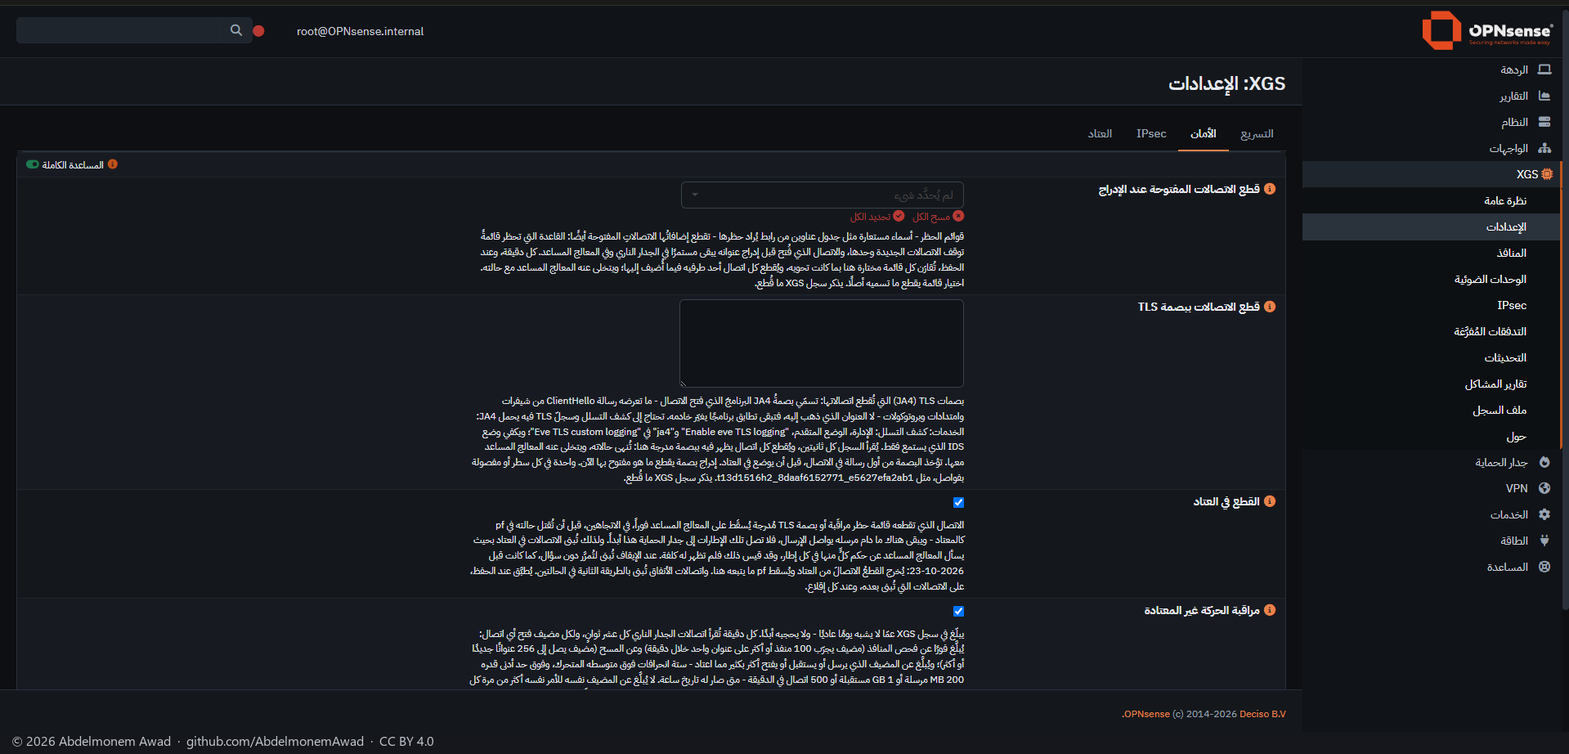
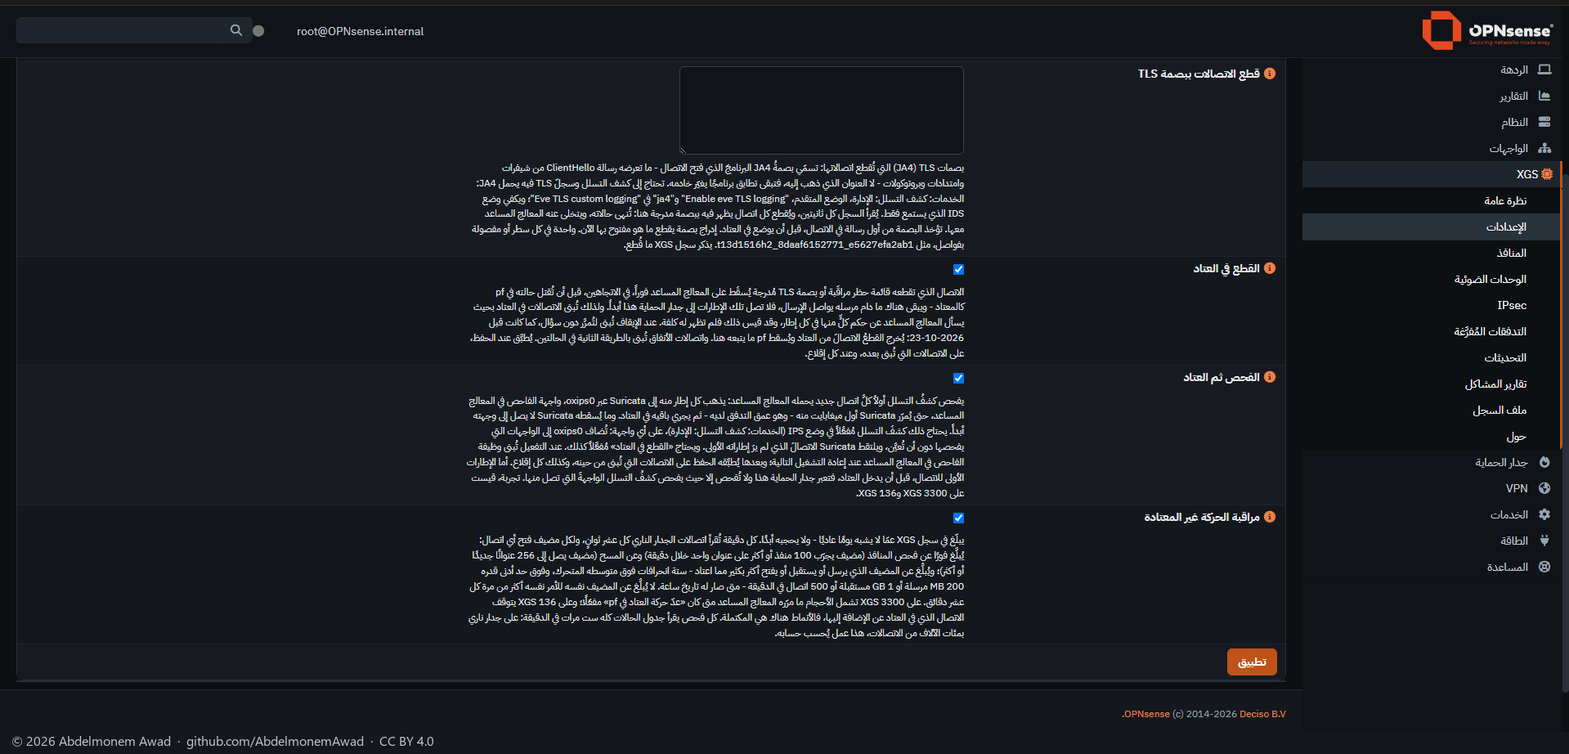
Inspect, then hardware: a setting, and OPNsense's own Intrusion Detection reading oxips0
Discovery 4 of #680, after #698 and #700: XGS: Settings, Security, "Inspect, then hardware", off by
default. Each new connection the coprocessor carries goes to OPNsense's Intrusion Detection in IPS mode
through oxips0 until Suricata has let its first megabyte through, and the hardware carries the rest.

- The setting (XGS.xml, forms/general.xml, apply.php): the marker /var/db/os-xgs-npu/inspector-vf, so
  the function is made at the next boot (a save says a reboot is needed while oxips0 is not there); while
  oxips0 is there, ips_new on and the interface up - at the save and at every boot, in 07-npuep and
  bringup.sh beside "Cut in hardware".
- The Intrusion Detection lists only assigned interfaces, and an assigned interface missing at boot has
  OPNsense assign them all again by itself. So the package adds oxips0 where Suricata reads it: an
  overlay on the IDS's templates (OPNsense/IDS/+TARGETS.D/xgs.TARGET, xgs-inspector.yaml), written into
  the conf.d that suricata.yaml includes, every time the IDS page is applied and at every boot.
- Suricata 8.0.7 replaces a whole list or mapping that an included file names, so the overlay sets
  dotted keys - netmap.900 and netmap.901 with their value "interface" (without it Suricata stopped with
  a segmentation fault), and stream.midstream. It adds oxips0 only in IPS mode, with the setting on, and
  while /var/run/os-xgs-npu.oxips0 says oxips0 is on the appliance this boot: Suricata does not start
[…]

diff --git a/src/opnsense/scripts/xgs/apply.php b/src/opnsense/scripts/xgs/apply.php
@@ -12,6 +12,9 @@
  *   flow_auto          the running driver: dev.octep.0.dp.auto or dev.npuep.0.flow.auto
  *   cut_in_hardware    the running driver's dp.mflow_action or flow.mflow_action (and at boot), and
  *                      the fast path's IPS switch, which offload.sh writes with the gate
+ *   inspect_then_hardware  the marker /var/db/os-xgs-npu/inspector-vf (the inspector's function, at
+ *                      boot), the running driver's dp.ips_new or flow.ips_new, and the Intrusion
+ *                      Detection's configuration through the template overlay OPNsense/IDS/xgs-inspector.yaml
  *   count_to_pf        the running driver, dev.octep.0.dp.hw_to_pf or dev.npuep.0.flow.hw_to_pf
  *                      (and at boot)
  *   count_ports        the running driver, dev.octep.0.dp.lif_apply or dev.npuep.0.flow.lif_apply
@@ -107,6 +110,72 @@ if (sysctl_get($act_oid) === null) {
 } else {
     $ok = false;
     $steps[] = 'cut in hardware: the driver refused ' . $act_oid;
+}
+
+/*
+ * Inspect, then hardware (discovery 4). The marker has the driver make the coprocessor's inspector
+ * function at boot, and oxips0 with it; while oxips0 is here, new connections are made inspected
+ * (ips_new) and /var/run/os-xgs-npu.oxips0 says so to the Intrusion Detection's template overlay,
+ * which adds oxips0 to what Suricata reads (OPNsense/IDS/xgs-inspector.yaml). The Intrusion
+ * Detection's configuration is written again for it, and Suricata restarted when it runs and what it
+ * reads has changed. The boot hooks do the same at every boot.
+ */
+$marker = '/var/db/os-xgs-npu/inspector-vf';
+$present = '/var/run/os-xgs-npu.oxips0';
+$overlay = '/usr/local/etc/suricata/conf.d/xgs-inspector.yaml';
+$inspect = $get('inspect_then_hardware', '0') === '1';
+exec('/sbin/ifconfig oxips0 > /dev/null 2>&1', $ifout, $ifrc);
+$have_if = $ifrc === 0;
+if ($inspect) {
+    @mkdir(dirname($marker), 0755, true);
+    @touch($marker);
+} else {
+    @unlink($marker);
+}
+if ($have_if) {
+    @touch($present);
+} else {
+    @unlink($present);
+}
+$new_oid = $family === 'octeontx' ? 'dev.octep.0.dp.ips_new' : 'dev.npuep.0.flow.ips_new';
+$ids = $c->OPNsense->IDS->general ?? null;
+$ids_on = $ids !== null && (string)$ids->enabled === '1';
+$ids_ips = $ids !== null && (string)$ids->mode === 'netmap';
+if ($inspect && !$have_if) {
+    $reboot = true;
+    $steps[] = "inspect, then hardware: the coprocessor's inspector function is made at the next reboot";
+} elseif ($inspect) {
+    exec('/sbin/ifconfig oxips0 up > /dev/null 2>&1');
+    if (sysctl_set($new_oid, '1')) {
+        $steps[] = 'inspect, then hardware on: new connections go to the Intrusion Detection through oxips0 until it has let ' .
+            round((int)sysctl_get(str_replace('ips_new', 'ips_depth', $new_oid)) / 1048576, 1) . ' MiB of each through';
+    } else {
+        $ok = false;
+        $steps[] = 'inspect, then hardware: the driver refused ' . $new_oid;
+    }
+    if ($cut_hw !== '1') {
+        $steps[] = 'inspect, then hardware: needs "Cut in hardware" on - without it the coprocessor never asks a connection\'s verdict, and connections forward as before';
+    }
+    if (!$ids_on || !$ids_ips) {
+        $steps[] = 'inspect, then hardware: the Intrusion Detection is not on in IPS mode, so nothing reads oxips0 and connections forward as before';
+    }
+} else {
+    if (sysctl_get($new_oid) !== null) {
+        sysctl_set($new_oid, '0');
+    }
+    $steps[] = 'inspect, then hardware off' . ($have_if ? "; the coprocessor's inspector function stays until the next reboot" : '');
+}
+$before = @file_get_contents($overlay);
+$backend = new \OPNsense\Core\Backend();
+$backend->configdRun('template reload OPNsense/IDS');
+if ($before === false) {
+    /* suricata.yaml includes what conf.d held when it was written, and it is written before this. */
+    $backend->configdRun('template reload OPNsense/IDS');
+}
+$after = @file_get_contents($overlay);
+if ($after !== false && $after !== $before && $ids_on) {
+    $backend->configdRun('ids restart');
+    $steps[] = 'the Intrusion Detection restarted to read ' . (strpos($after, 'oxips0') !== false ? 'oxips0 as well' : 'only its own interfaces');
 }
 
 /* The coprocessor's counts, to pf and to the interfaces: both drivers read them. */

diff --git a/docs/images/README.md b/docs/images/README.md
@@ -19,10 +19,10 @@ to a new image, and the checks fail on one without them.
 |---|---|---|
 | [screens/](screens/) | The web interface, page by page, in English and in Arabic | 69 |
 | [hardware/](hardware/) | Photographs and drawings of the appliances, one folder each | 41 |
-| [measurements/](measurements/) | Each measurement's photographs, in a folder named after its page | 331 |
+| [measurements/](measurements/) | Each measurement's photographs, in a folder named after its page | 333 |
 | [readme/](readme/) | The README's banner and status board, drawn by tools/readme-art.py | 4 |
 
-470 images in all.
+472 images in all.
 
 ## The web interface
 
@@ -35,7 +35,7 @@ in [docs/guide/the-pages.md](../guide/the-pages.md), English first and Arabic un
 <tr><td valign="top"><sub>The question on XGS: Overview, on the second XGS 3300 as a new install shows it: problem reports waiting for their Send, the appliance not counted, the model's tested status, "Help it get better", and the two answers</sub></td><td valign="top"><a href="screens/en/01-xgs-overview-question.png"><img src="screens/en/01-xgs-overview-question.png" alt="The question on XGS: Overview, on the second XGS 3300 as a new install shows it: problem reports waiting for their Send, the appliance not counted, the model's tested status, "Help it get better", and the two answers - English" width="100%"></a></td><td valign="top"><a href="screens/ar/01-xgs-overview-question.png"><img src="screens/ar/01-xgs-overview-question.png" alt="The question on XGS: Overview, on the second XGS 3300 as a new install shows it: problem reports waiting for their Send, the appliance not counted, the model's tested status, "Help it get better", and the two answers - Arabic" width="100%"></a></td></tr>
 <tr><td valign="top"><sub>XGS: Overview on an XGS 3300: the front panel drawn with each port's link, cards for the coprocessor, hardware offloading, the IPsec engine, the front ports, the switch chip and the last restart, and the board's limits</sub></td><td valign="top"><a href="screens/en/01-xgs-overview.png"><img src="screens/en/01-xgs-overview.png" alt="XGS: Overview on an XGS 3300: the front panel drawn with each port's link, cards for the coprocessor, hardware offloading, the IPsec engine, the front ports, the switch chip and the last restart, and the board's limits - English" width="100%"></a></td><td valign="top"><a href="screens/ar/01-xgs-overview.png"><img src="screens/ar/01-xgs-overview.png" alt="XGS: Overview on an XGS 3300: the front panel drawn with each port's link, cards for the coprocessor, hardware offloading, the IPsec engine, the front ports, the switch chip and the last restart, and the board's limits - Arabic" width="100%"></a></td></tr>
 <tr><td valign="top"><sub>XGS: Settings on an XGS 3300: the Acceleration tab</sub></td><td valign="top"><a href="screens/en/02-xgs-settings.png"><img src="screens/en/02-xgs-settings.png" alt="XGS: Settings on an XGS 3300: the Acceleration tab - English" width="100%"></a></td><td valign="top"><a href="screens/ar/02-xgs-settings.png"><img src="screens/ar/02-xgs-settings.png" alt="XGS: Settings on an XGS 3300: the Acceleration tab - Arabic" width="100%"></a></td></tr>
-<tr><td valign="top"><sub>XGS: Settings on an XGS 3300, the Security tab with full help: Cut open connections when listed, Cut connections by TLS fingerprint, Cut in hardware, Watch for unusual traffic</sub></td><td valign="top"><a href="screens/en/02b-xgs-settings-security.png"><img src="screens/en/02b-xgs-settings-security.png" alt="XGS: Settings on an XGS 3300, the Security tab with full help: Cut open connections when listed, Cut connections by TLS fingerprint, Cut in hardware, Watch for unusual traffic - English" width="100%"></a></td><td valign="top"><a href="screens/ar/02b-xgs-settings-security.png"><img src="screens/ar/02b-xgs-settings-security.png" alt="XGS: Settings on an XGS 3300, the Security tab with full help: Cut open connections when listed, Cut connections by TLS fingerprint, Cut in hardware, Watch for unusual traffic - Arabic" width="100%"></a></td></tr>
+<tr><td valign="top"><sub>XGS: Settings on the XGS 136, the Security tab with full help: Cut in hardware, Inspect, then hardware, Watch for unusual traffic</sub></td><td valign="top"><a href="screens/en/02b-xgs-settings-security.png"><img src="screens/en/02b-xgs-settings-security.png" alt="XGS: Settings on the XGS 136, the Security tab with full help: Cut in hardware, Inspect, then hardware, Watch for unusual traffic - English" width="100%"></a></td><td valign="top"><a href="screens/ar/02b-xgs-settings-security.png"><img src="screens/ar/02b-xgs-settings-security.png" alt="XGS: Settings on the XGS 136, the Security tab with full help: Cut in hardware, Inspect, then hardware, Watch for unusual traffic - Arabic" width="100%"></a></td></tr>
 <tr><td valign="top"><sub>XGS: Settings on an XGS 3300, the Hardware tab: the flow table, the switch chip, the fast path, the ports</sub></td><td valign="top"><a href="screens/en/02c-xgs-settings-hardware.png"><img src="screens/en/02c-xgs-settings-hardware.png" alt="XGS: Settings on an XGS 3300, the Hardware tab: the flow table, the switch chip, the fast path, the ports - English" width="100%"></a></td><td valign="top"><a href="screens/ar/02c-xgs-settings-hardware.png"><img src="screens/ar/02c-xgs-settings-hardware.png" alt="XGS: Settings on an XGS 3300, the Hardware tab: the flow table, the switch chip, the fast path, the ports - Arabic" width="100%"></a></td></tr>
 <tr><td valign="top"><sub>XGS: Ports on an XGS 3300</sub></td><td valign="top"><a href="screens/en/03-xgs-ports.png"><img src="screens/en/03-xgs-ports.png" alt="XGS: Ports on an XGS 3300 - English" width="100%"></a></td><td valign="top"><a href="screens/ar/03-xgs-ports.png"><img src="screens/ar/03-xgs-ports.png" alt="XGS: Ports on an XGS 3300 - Arabic" width="100%"></a></td></tr>
 <tr><td valign="top"><sub>XGS: Ports on the XGS 136, its Power over Ethernet section: port 11 on with no device, port 12 switched off, each with Switch off or on and Power cycle</sub></td><td valign="top"><a href="screens/en/03b-xgs-ports-poe.png"><img src="screens/en/03b-xgs-ports-poe.png" alt="XGS: Ports on the XGS 136, its Power over Ethernet section: port 11 on with no device, port 12 switched off, each with Switch off or on and Power cycle - English" width="100%"></a></td><td valign="top"><sub>English only</sub></td></tr>
@@ -286,7 +286,7 @@ The page: [image-136-2026-10-21.md](../measurements/image-136-2026-10-21.md).
 the sources the image carries, the update to 26.7.7 with the reboot held until the driver was built
 for the new kernel, and the IPsec offload, ports and route after the restored configuration | [image-136-2026-10-21.md](../measurements/image-136-2026-10-21.md) |
 
-### measurements/inspect-2026-10-23/ (11)
+### measurements/inspect-2026-10-23/ (13)
 
 The page: [inspect-2026-10-23.md](../measurements/inspect-2026-10-23.md).
 
@@ -303,6 +303,8 @@ The page: [inspect-2026-10-23.md](../measurements/inspect-2026-10-23.md).
 | [09-136-tcp-inspected-and-back.png](measurements/inspect-2026-10-23/09-136-tcp-inspected-and-back.png) | XGS 136, a TCP stream set to inspection and handed straight back by the driver through the inspector's function: the link full, 401,868 frames there and back, none dropped | [inspect-2026-10-23.md](../measurements/inspect-2026-10-23.md) |
 | [10-136-udp-inspected-and-back.png](measurements/inspect-2026-10-23/10-136-udp-inspected-and-back.png) | XGS 136, a UDP stream at 300 Mbit/s, the same: 326 Mbit/s at the far end, all of it | [inspect-2026-10-23.md](../measurements/inspect-2026-10-23.md) |
 | [11-136-inspected-then-hardware.png](measurements/inspect-2026-10-23/11-136-inspected-then-hardware.png) | XGS 136, inspection then hardware: a new TCP stream through Suricata, then forwarded in hardware at 930 Mbit/s; a new UDP stream to the blocked port dropped by Suricata, 199,507 drop events | [inspect-2026-10-23.md](../measurements/inspect-2026-10-23.md) |
+| [12-136-the-ids-service-on-oxips0.png](measurements/inspect-2026-10-23/12-136-the-ids-service-on-oxips0.png) | XGS 136, Inspect, then hardware through OPNsense's Intrusion Detection service: a new TCP stream inspected, alerted on, then carried in hardware at 941 Mbit/s; a new UDP stream blocked by a drop rule | [inspect-2026-10-23.md](../measurements/inspect-2026-10-23.md) |
+| [13-3300-the-ids-service-on-oxips0.png](measurements/inspect-2026-10-23/13-3300-the-ids-service-on-oxips0.png) | XGS 3300, Inspect, then hardware through OPNsense's Intrusion Detection service: a new TCP stream inspected, alerted on, then carried in hardware at 3.98 Gbit/s; a new UDP stream blocked by a drop rule | [inspect-2026-10-23.md](../measurements/inspect-2026-10-23.md) |
 
 ### measurements/ipv6-and-queues-2026-10-18/ (3)
 

diff --git a/docs/measurements/inspect-2026-10-23.md b/docs/measurements/inspect-2026-10-23.md
@@ -130,7 +130,9 @@ and the same steps after the next boot did not; why, is not known.
 
 ### How to turn it on, while it is an experiment
 
-There is no setting yet. On an XGS 3300 with this driver:
+~~There is no setting yet.~~ Since the evening there is one, which does all of this and has OPNsense's
+own Intrusion Detection read `oxips0` ([below](#the-setting-and-the-intrusion-detection-service)).
+By hand, on an XGS 3300 with this driver:
 
     touch /var/db/os-xgs-npu/inspector-vf     # then reboot: the function is made at boot
     ifconfig oxips0 up
@@ -158,8 +160,9 @@ own IDS service rather than through it (`images/deploy/inspect-suricata.yaml`,
 
 - ~~**The XGS 136**: its coprocessor sets up four functions of its own; the host makes none yet.~~
   The XGS 136's driver makes one since the same evening ([below](#then-made-on-the-xgs-136)).
-- **A setting**, and OPNsense's Intrusion Detection service reading `oxips0`: the interface is not
-  assigned, and the service only lists assigned ones.
+- ~~**A setting**, and OPNsense's Intrusion Detection service reading `oxips0`: the interface is not
+  assigned, and the service only lists assigned ones.~~ Both since the evening, the interface still
+  unassigned ([below](#the-setting-and-the-intrusion-detection-service)).
 - **A connection's first frames**, before it is in hardware, cross the host and are not on `oxips0`;
   Suricata sees them only if it also inspects the front ports.
 - A frame longer than one receive buffer, and a frame that is not IP, is not inspected - it is dropped
@@ -223,6 +226,70 @@ On an XGS 136 with this driver it is turned on as on the XGS 3300, with this fam
 Counters: `dev.npuep.0.ips.rx`, `up`, `passed`, `back`, `nomd`, `unkeyed`, `dropped`, and
 `dev.npuep.0.flow.ips_made`, `ips_cut`. Beside what the XGS 3300's list says it does not do yet, the
 function's queue is one, read on the receive poll, and only the XGS 136 (AMDA0201) has made it.
+
+## The setting, and the Intrusion Detection service
+
+Later the same evening, on both appliances: XGS: Settings, on the **Security** tab, **Inspect, then
+hardware** - off by default - and OPNsense's own Intrusion Detection reading `oxips0`, with nothing
+run by hand and nothing in OPNsense's own files changed.
+
+- **The setting** writes the marker, so the function is made at the next boot (a save says a reboot
+  is needed while `oxips0` is not there yet), and while `oxips0` is there turns `ips_new` on and
+  brings the interface up - at the save and at every boot, in the boot hook beside "Cut in hardware".
+- **The Intrusion Detection** lists only assigned interfaces, and `oxips0` is not assigned: an
+  interface assigned in OPNsense that is missing at boot has OPNsense assign every interface again by
+  itself, which wiped the second XGS 3300's assignments on 2026-10-23 when an interface the driver made
+  late had been assigned. So the package adds `oxips0` where Suricata reads it instead: OPNsense's
+  template engine takes extra targets for a module from `+TARGETS.D`, and the IDS's `suricata.yaml`
+  includes every file in `/usr/local/etc/suricata/conf.d`. The package's overlay on the IDS module,
+  `OPNsense/IDS/xgs-inspector.yaml`, is written with OPNsense's own `suricata.yaml` - every time the
+  IDS page is applied, and at every boot - and adds `oxips0` and its host side to the interfaces
+  Suricata opens in IPS mode, beside the ones chosen on the IDS page.
+- **Suricata replaces a whole list or mapping that an included file names**: an included `netmap`
+  list took the place of the IDS page's interfaces and an included `stream` mapping of every stream
+  setting (`--dump-config`, Suricata 8.0.7). A key written with dots - `netmap.900.interface` - sets that
+  one node and leaves the rest; given without its value, `interface`, as a list entry has, it stopped
+  Suricata with a segmentation fault. The overlay writes its two entries that way, and
+  `stream.midstream: true`, because a connection reaches `oxips0` already open. While the setting is
+  on, that is Suricata's midstream pick-up for every interface it inspects.
+- **Suricata does not start when an interface it is given is missing.** The overlay adds `oxips0` only
+  in IPS mode, with the setting on, and while `/var/run/os-xgs-npu.oxips0` says `oxips0` is on the
+  appliance this boot - the boot hook writes it before OPNsense writes its templates, and the save when
+  it runs. On the XGS 136, the marker taken away by hand and the appliance restarted: no function, the
+  overlay empty, Suricata running on the IDS page's interface alone; the save then said a reboot was
+  needed and put the marker back, and the next boot had it all again.
+
+Measured with the Intrusion Detection on in IPS mode on an interface that carries nothing - F2 on the
+XGS 136, Port1 on the XGS 3300 - and one user-defined rule acting on everything to the far end: first
+**alert**, while a new TCP stream ran twelve seconds, then **drop**, while a new UDP stream ran eight at
+300 Mbit/s (`images/deploy/lab-inspect-ids.sh`, `lab-inspect-config.php`):
+
+| | the rule | the stream | through Suricata on `oxips0` | the Intrusion Detection's log |
+|---|---|---|---|---|
+| XGS 136, npuep.ko 687b1f3e | alert | TCP, **941 Mbit/s** - the link full | its first 1,502 frames, then forward in hardware | 2 alerts, allowed |
+| XGS 136 | drop | UDP, 300 Mbit/s | 182,288 frames, none let through | 2 alerts, blocked |
+| XGS 3300, octep.ko 1d1f2d08 | alert | TCP, **3.98 Gbit/s** | its first 749 frames, then forward in hardware | 2 alerts, allowed |
+| XGS 3300 | drop | UDP, 300 Mbit/s | 205,409 frames, none let through | 2 alerts, blocked |
+
+What the dropped stream left behind it at the far end: 35 MB on the XGS 136, read on the second XGS
+3300's Port8 (15 MB in the run before) - its frames before it was put in hardware, which cross this
+host and an interface the IDS does not inspect - and nothing on the XGS 3300, read on its F2's counters,
+which carry what the coprocessor forwards. iperf3's own receiver line says nothing here: it comes back
+on iperf3's control connection, which the rule cuts as well.
+
+After a reboot of each, with nothing done by hand, a new connection was inspected by the service's
+Suricata: on the XGS 136 the drop rule still in place, 290 frames to `oxips0` and none back; on the
+XGS 3300 with the alert rule, 744 frames, then forward, 3.73 Gbit/s.
+
+![XGS 136, Inspect, then hardware through OPNsense's Intrusion Detection service: a new TCP stream inspected, alerted on, then carried in hardware at 941 Mbit/s; a new UDP stream blocked by a drop rule](../images/measurements/inspect-2026-10-23/12-136-the-ids-service-on-oxips0.png)
+
+![XGS 3300, Inspect, then hardware through OPNsense's Intrusion Detection service: a new TCP stream inspected, alerted on, then carried in hardware at 3.98 Gbit/s; a new UDP stream blocked by a drop rule](../images/measurements/inspect-2026-10-23/13-3300-the-ids-service-on-oxips0.png)
+
+To use it: XGS: Settings, **Security**, **Inspect, then hardware**, and reboot once; **Cut in
+hardware** on, as it is by default; the Intrusion Detection on in IPS mode on any interface
+(**Services: Intrusion Detection: Administration**), with the rules to apply. What the list above
+says it does not do yet still holds: a connection's first frames are inspected only where the IDS
+inspects the interface they arrive on.
 
 ## How it was measured
 

diff --git a/docs/measurements/README.md b/docs/measurements/README.md
@@ -27,7 +27,7 @@ each kind of figure and the rules, each with its reason - is [how the measuremen
 | [A thousand connections at once through the XGS 3300, 2026-10-19](xgs3300-many-2026-10-19.md) | XGS 3300: 1,024 streams from the PC, 1,032 connections in hardware, the 10 Gbit/s link full at 9,837 Mbit/s, the CPUs 7.8 % busy; each connection made five or six times and revived twenty in 30 s |
 | [Tunnel connections in the XGS 136's flow table, 2026-10-20](tunflows-136-2026-10-20.md) | XGS 136: a tunnel connection's encrypting direction forwarded and encrypted by the fast path - the host handing it no frame, its CPUs 11 % busy against 23 %, 916 Mbit/s, none of it in the clear, a rekey handled; set in XGS: Settings |
 | [An image from the builder on the XGS 136: installed, updated, its configuration restored, 2026-10-21](image-136-2026-10-21.md) | XGS 136: the front ports up at the first boot of a clean install, the driver built from the sources the image carries; updated to OPNsense 26.7.7 from the GUI, the reboot held 54 seconds until the driver was built for the new kernel; the earlier configuration restored, the driver's loader settings taken at the second boot |
-| [Where a connection sent to inspection goes - and then the inspector made, 2026-10-23](inspect-2026-10-23.md) | both appliances: the "send to inspection" verdict hands every frame to the inspector's PCIe virtual function, which OPNsense did not make - 167,677 frames in six seconds on the XGS 3300, 151,867 on the XGS 136, nothing received; then, on the XGS 3300, the function made: Suricata in IPS mode on oxips0 blocks a connection in hardware, passes another at 3.2 Gbit/s, and inspects a new one for its first megabyte before the hardware carries the rest at 3.8 Gbit/s; the same on the XGS 136 the same evening, the gigabit link full |
+| [Where a connection sent to inspection goes - and then the inspector made, 2026-10-23](inspect-2026-10-23.md) | both appliances: the "send to inspection" verdict hands every frame to the inspector's PCIe virtual function, which OPNsense did not make - 167,677 frames in six seconds on the XGS 3300, 151,867 on the XGS 136, nothing received; then, on the XGS 3300, the function made: Suricata in IPS mode on oxips0 blocks a connection in hardware, passes another at 3.2 Gbit/s, and inspects a new one for its first megabyte before the hardware carries the rest at 3.8 Gbit/s; the same on the XGS 136 the same evening, the gigabit link full; and the setting, "Inspect, then hardware", with OPNsense's own Intrusion Detection reading oxips0 on both |
 | [A connection cut on the coprocessor itself, by its verdict, 2026-10-23](verdict-2026-10-23.md) | both appliances: a block list's cut drops the connection in hardware first and keeps it there - a UDP flood cut, 10 frames to the XGS 3300's host in ten seconds against 610,533 without "Cut in hardware", 36 against 280,202 on the XGS 136; a thousand connections the same with it as without |
 | [The XGS 3300's coprocessor reached over its management link, 2026-10-23](mgmt-link-2026-10-23.md) | XGS 3300: one command on the coprocessor in 0.73-0.77 s over its PCIe link instead of 11.01 s over its console, the Transceivers page's read in 1.80 s instead of 36.19; the link started, addressed and answering at every boot, three in a row, every interface kept; XGS 136 unchanged, 0.49-0.53 s |
 | [The heartbeat with the fast path, 2026-10-22](heartbeat-2026-10-22.md) | XGS 3300: asked every 5 seconds and answered every time, about 130 µs idle and 20-131 µs under 6.13 Gbit/s, nothing lost to it (5.90 Gbit/s with it off); its fast path stopped for 45 seconds - late after 19 s, taken as stopped at 30 s, answering again after 48 s, the data path back with it. XGS 136: its fast path drops the heartbeat message unanswered, ~~so it is off by default there~~ so since 2026-10-23 its answer is the beat taken off the host's queue - a stop of 40 seconds seen late, taken as stopped, back; its RPC channel answers with the fast path stopped, so it could not stand in. Beats sent before the coprocessor's handshake were followed by a boot on which the fast path sent nothing |

diff --git a/docs/findings/discoveries-2026-10-22.md b/docs/findings/discoveries-2026-10-22.md
@@ -40,7 +40,7 @@ second XGS 3300 and on the XGS 136, read only.
 | 1 | [The TCP window, in hardware](#the-tcp-window-in-hardware) | fast path | ~~source~~ **measured** | ~~source~~ **measured** | ~~**a gap**: checked nowhere~~ **checked in hardware since 2026-10-22** |
 | 2 | [The window handed back](#the-window-handed-back) | fast path | ~~source~~ **measured** | ~~source~~ **measured** | ~~the take-back's TCP state not used~~ **given to pf at a take-back since 2026-10-22** |
 | 3 | [A connection dropped by its verdict](#a-connection-dropped-by-its-verdict) | fast path | ~~source~~ **measured** | ~~source~~ **measured** | ~~verdict always "forward"~~ **a cut drops the connection on the coprocessor since 2026-10-23** ("Cut in hardware") |
-| 4 | [Inspection, then hardware](#inspection-then-hardware) | fast path | ~~source~~ **measured** | ~~source~~ **measured** | ~~none - the frames go to a virtual function OPNsense does not make~~ **XGS 3300: made 2026-10-23, Suricata inspects a connection in hardware and the hardware carries the rest - off by default**; ~~the XGS 136 next~~ **XGS 136: made the same evening, the same way, the link full** |
+| 4 | [Inspection, then hardware](#inspection-then-hardware) | fast path | ~~source~~ **measured** | ~~source~~ **measured** | ~~none - the frames go to a virtual function OPNsense does not make~~ **XGS 3300: made 2026-10-23, Suricata inspects a connection in hardware and the hardware carries the rest - off by default**; ~~the XGS 136 next~~ **XGS 136: made the same evening, the same way, the link full**; **a setting, "Inspect, then hardware", with OPNsense's own Intrusion Detection, the same evening** |
 | 5 | [Live users](#live-users) | fast path | source | source | none |
 | 6 | [A priority bit and a meter for each connection](#a-priority-bit-and-a-meter-for-each-connection) | fast path | source | source | zero |
 | 7 | [The QoS commands](#the-qos-commands) | fast path | source | source | none; expected refused |
@@ -137,12 +137,16 @@ another way until they do. What using it would take, and a nearer way to the sam
 one**: the coprocessor took it, the frames arrived with the vendor's metadata, and Suricata in IPS mode
 on the inspector's interface `oxips0` blocked a connection in hardware and let another through at 3.2
 Gbit/s; a new connection inspected for its first megabyte then ran in hardware at 3.8 Gbit/s. Off unless
-asked for, while ~~the XGS 136 and~~ a setting ~~follow~~ follows
+asked for, while ~~the XGS 136 and~~ ~~a setting~~ ~~follow~~ ~~follows~~
 ([measured](../measurements/inspect-2026-10-23.md#then-made-on-the-xgs-3300)). **The XGS 136's driver
 made its function the same evening** - the first of the four its coprocessor sets up - and the same
 inspection then hardware ran there: Suricata dropped a UDP stream by its rule from the moment it was in
 hardware, and a new TCP stream ran through it, then in hardware, with the gigabit link full
-([measured](../measurements/inspect-2026-10-23.md#then-made-on-the-xgs-136)).
+([measured](../measurements/inspect-2026-10-23.md#then-made-on-the-xgs-136)). **And the setting**, later
+that evening: XGS: Settings **Inspect, then hardware**, with OPNsense's own Intrusion Detection in IPS
+mode reading `oxips0` through a template overlay - a rule's alert and its drop both taken, the TCP
+stream at 941 Mbit/s on the XGS 136 and 3.98 Gbit/s on the XGS 3300
+([measured](../measurements/inspect-2026-10-23.md#the-setting-and-the-intrusion-detection-service)).
 
 **source.** The "send to inspection" verdict hands a connection to an inspector on a virtual function
 (`ips_vf`), with a metadata block that lets the inspector rewrite the packet and ask for new

diff --git a/website/i18n/ar/guide/faq.md b/website/i18n/ar/guide/faq.md
@@ -45,10 +45,15 @@ GitHub، وأداتا كتابة الذاكرة وفتح الطرفية.
 الاتصالات، بعد أن يسمح بها جدار الحماية - فيمرّرها المسار السريع من منفذ إلى منفذ - وIPsec، الذي يشفّر
 محرّك المعالج المساعد ارتباطاته ويفكّ تشفيرها. وما يجب أن يراه المضيف يبقى معه: الاتصال الذي يسمّيه
 مشكِّل الحركة أو بوابة الدخول يبقى على المضيف، وSuricata يرى الاتصال قبل أن يدخل العتاد - بدايته، ولا
-شيء بعدها. **فوضع IPS المضمَّن في Suricata والتسريع، حتى الآن، إما هذا وإما ذاك**: ما يجب أن يراه IPS
-كاملًا يوضع في **Never offloaded** في XGS: Settings، أو يبقى التسريع مطفأً. وهل يمكن أن يعملا معًا فهذا
-قيد البحث: للمسار السريع في المعالج المساعد حكم يرسل بداية الاتصال إلى فاحص ويحمل الباقي بنفسه، وُجد
-في 2026-10-22 ولم يُجرَّب بعد ([الاكتشافات](/docs/findings/discoveries-2026-10-22/#inspection-then-hardware)، بالإنجليزية).
+شيء بعدها. ~~**فوضع IPS المضمَّن في Suricata والتسريع، حتى الآن، إما هذا وإما ذاك**~~ **ووضع IPS
+المضمَّن في Suricata والتسريع يعملان معًا منذ 2026-10-23، تجربةً**: الخيار **Inspect, then hardware** في
+XGS: Settings، المطفأ افتراضيًا، يجعل كشف التسلل في OPNsense بوضع IPS يرى كل إطار من الاتصال الجديد في
+العتاد حتى يُمرّر أول ميغابايت منه، ويُسقط ما تُسقطه قواعده، ويترك الباقي للعتاد - قيس بالخدمة نفسها
+على الجهازين ([القياس](/docs/measurements/inspect-2026-10-23/#the-setting-and-the-intrusion-detection-service)، بالإنجليزية).
+ومن دونه، ما يجب أن يراه IPS
+كاملًا يوضع في **Never offloaded** في XGS: Settings، أو يبقى التسريع مطفأً. ~~وهل يمكن أن يعملا معًا فهذا
+قيد البحث:~~ للمسار السريع في المعالج المساعد حكم يرسل بداية الاتصال إلى فاحص ويحمل الباقي بنفسه، وُجد
+في 2026-10-22 ~~ولم يُجرَّب بعد~~ وجُرِّب في 2026-10-23 ([الاكتشافات](/docs/findings/discoveries-2026-10-22/#inspection-then-hardware)، بالإنجليزية).
 [ما يعمل](/docs/guide/what-works/)، و[مشكِّل الحركة مقيساً](/docs/measurements/shaper-3300-2026-10-20/)،
 و[قطع اتصال ببصمة TLS](/docs/measurements/ja4-cut-2026-10-19/) (بالإنجليزية).
 

diff --git a/docs/guide/faq.md b/docs/guide/faq.md
@@ -41,8 +41,13 @@ each appliance, is in its family page's table - [ARMADA](../families/armada.md#w
 Connections, once the firewall has let them through - the fast path forwards them port to port - and
 IPsec, whose associations the coprocessor's engine encrypts and decrypts. What has to be seen by the
 host stays with it: a connection the traffic shaper or the captive portal names is kept on the host,
-and Suricata sees a connection before it goes into hardware - how it starts, and nothing after. **Suricata's
-inline IPS and the offload are, for now, one or the other**: what the IPS must see in full goes in
+and Suricata sees a connection before it goes into hardware - how it starts, and nothing after. ~~**Suricata's
+inline IPS and the offload are, for now, one or the other**~~ **Suricata's inline IPS and the offload
+work together since 2026-10-23, as an experiment**: XGS: Settings **Inspect, then hardware**, off by
+default, has OPNsense's Intrusion Detection in IPS mode see every frame of a new connection in hardware
+until it has let its first megabyte through, drop what its rules drop, and leave the rest to the
+hardware - measured with the service itself on both appliances ([measured](../measurements/inspect-2026-10-23.md#the-setting-and-the-intrusion-detection-service)).
+Without it, what the IPS must see in full goes in
 **Never offloaded** on XGS: Settings, or acceleration stays off. Whether the two can work together is
 under research: the coprocessor's fast path has a verdict that sends a connection's start to an
 inspector and carries the rest itself, found on 2026-10-22 ~~and not tried yet~~ and tried on
@@ -51,9 +56,10 @@ does not, so they are lost until the drivers make one
 ([the discoveries](../findings/discoveries-2026-10-22.md#inspection-then-hardware),
 [measured](../measurements/inspect-2026-10-23.md)). On the XGS 3300 the driver made one the same day,
 and Suricata inspected connections in hardware through it - their first megabyte, then the hardware
-carried the rest. That is an experiment, off unless asked for, until ~~the XGS 136 has it too and~~ there
-is a setting ([measured](../measurements/inspect-2026-10-23.md#then-made-on-the-xgs-3300)); the XGS 136
-has it too since the same evening ([measured](../measurements/inspect-2026-10-23.md#then-made-on-the-xgs-136)).
+carried the rest. That is an experiment, off unless asked for, ~~until~~ ~~the XGS 136 has it too and~~ ~~there
+is a setting~~ ([measured](../measurements/inspect-2026-10-23.md#then-made-on-the-xgs-3300)); the XGS 136
+has it too since the same evening ([measured](../measurements/inspect-2026-10-23.md#then-made-on-the-xgs-136)),
+and the setting above since later that evening.
 [What works](what-works.md), [the shaper, measured](../measurements/shaper-3300-2026-10-20.md),
 [a TLS fingerprint, cut](../measurements/ja4-cut-2026-10-19.md).
 

diff --git a/docs/guide/the-pages.md b/docs/guide/the-pages.md
@@ -103,6 +103,10 @@ again; on the XGS 136, the receive path too. **Full help** shows the text under 
 the Security tab below; **advanced mode** shows the rest. Since 2026-10-23 **Cut in hardware**, on
 by default, has both cuts on the **Security** tab drop a connection on the coprocessor itself first
 and keep it there while its sender goes on ([measured](../measurements/verdict-2026-10-23.md)).
+**Inspect, then hardware**, off by default, has OPNsense's Intrusion Detection in IPS mode inspect
+each new connection in hardware until it has let its first megabyte through, and the coprocessor
+carry the rest; it needs one reboot
+([measured](../measurements/inspect-2026-10-23.md#the-setting-and-the-intrusion-detection-service)).
 Since 2026-10-19 that tab has **Cut open connections when listed**: block lists whose additions cut
 the connections already open ([measured](../measurements/lists-cut-2026-10-19.md)), and **Cut
 connections by TLS fingerprint**: JA4 fingerprints whose connections are cut, read from the
@@ -115,7 +119,7 @@ traffic graphs show it ([measured](../measurements/hw-counters-2026-10-19.md); o
 **Watch for unusual traffic** reports a scan, a sweep, or a host far beyond its own normal in the
 XGS log, and blocks nothing ([measured](../measurements/anomaly-2026-10-19.md)).
 
-![XGS: Settings on an XGS 3300, the Security tab with full help: Cut open connections when listed, Cut connections by TLS fingerprint, Cut in hardware, Watch for unusual traffic](../images/screens/en/02b-xgs-settings-security.png)
+![XGS: Settings on the XGS 136, the Security tab with full help: Cut in hardware, Inspect, then hardware, Watch for unusual traffic](../images/screens/en/02b-xgs-settings-security.png)
 
 ![XGS: Settings on an XGS 3300, the Hardware tab: the flow table, the switch chip, the fast path, the ports](../images/screens/en/02c-xgs-settings-hardware.png)
 
@@ -123,7 +127,7 @@ XGS log, and blocks nothing ([measured](../measurements/anomaly-2026-10-19.md)).
 
 ![XGS: Settings on an XGS 3300, in Arabic: the Acceleration tab](../images/screens/ar/02-xgs-settings.png)
 
-![XGS: Settings on an XGS 3300, the Security tab, in Arabic](../images/screens/ar/02b-xgs-settings-security.png)
+![XGS: Settings on the XGS 136, the Security tab with full help, in Arabic](../images/screens/ar/02b-xgs-settings-security.png)
 
 ![XGS: Settings on an XGS 3300, the Hardware tab, in Arabic](../images/screens/ar/02c-xgs-settings-hardware.png)
 

diff --git a/README.md b/README.md
@@ -81,11 +81,17 @@ Two of the six coprocessor families answer now, on silicon that shares nothing.
   [XGS 136](docs/measurements/xgs136-counts-2026-10-19.md#the-reader-measured)). Each driver sizes its table by what the board itself says it holds -
   2,000,000 connections on the XGS 3300, 1,500,000 on the XGS 136
   ([board-limits.md](docs/families/board-limits.md)).
-- **An IPS or the offload, for now.** Suricata sees how a connection in hardware starts and nothing
+- ~~**An IPS or the offload, for now.** Suricata sees how a connection in hardware starts and nothing
   after, so its inline IPS and the offload are one or the other until the two are measured together:
   what it must see in full goes in **Never offloaded** on XGS: Settings, or acceleration stays off.
-  Whether they can work together is under research
-  ([the FAQ](docs/guide/faq.md#what-runs-in-the-coprocessors-hardware)).
+  Whether they can work together is under research~~
+  **An IPS and the offload together, as an experiment.** With **Inspect, then hardware** on XGS:
+  Settings, OPNsense's Intrusion Detection in IPS mode sees every frame of a new connection the
+  coprocessor carries until it has let its first megabyte through, drops what its rules drop, and the
+  hardware carries the rest - 941 Mbit/s on the XGS 136, the link full, and 3.98 Gbit/s on the XGS
+  3300 ([measured](docs/measurements/inspect-2026-10-23.md#the-setting-and-the-intrusion-detection-service)).
+  Off by default; without it, what the IPS must see in full goes in **Never offloaded**, or
+  acceleration stays off ([the FAQ](docs/guide/faq.md#what-runs-in-the-coprocessors-hardware)).
 - **Nothing leaves an appliance unless its owner chooses.** Problem reports wait for their Send and
   the appliance is not counted until its owner says so - XGS: Overview asks once
   ([problem-reports.md](docs/problem-reports.md#the-owner-decides)).

diff --git a/docs/guide/installing.md b/docs/guide/installing.md
@@ -183,6 +183,17 @@ minute), a sweep (one host reaching 256 new addresses or more), and a host that 
 opens far more than it usually does, once it has an hour of history. Measured on the XGS 3300
 ([anomaly-2026-10-19.md](../measurements/anomaly-2026-10-19.md)).
 
+**Inspection, then hardware**, since 2026-10-23, an experiment. **Settings** has **Inspect, then
+hardware**, off until it is turned on, with a reboot the first time. Each new connection the
+coprocessor carries then goes to OPNsense's own Intrusion Detection through `oxips0`, the
+coprocessor's inspector interface, until Suricata has let its first megabyte through, and the rest
+runs in hardware; what Suricata drops never arrives. The Intrusion Detection must be on in IPS mode,
+on any interface - **Services: Intrusion Detection: Administration** - and **Cut in hardware** on, as
+it is by default; `oxips0` is added to what Suricata reads without being assigned. A connection's
+first frames, before it is in hardware, are inspected only where the IDS inspects the interface they
+arrive on. Measured on both appliances
+([inspect-2026-10-23.md](../measurements/inspect-2026-10-23.md#the-setting-and-the-intrusion-detection-service)).
+
 **Hardware traffic counted where OPNsense looks**, since 2026-10-19, on both appliances. A connection
 the coprocessor forwards is not seen by pf or by the interfaces, so their counters - the Sessions
 page, the rules' statistics, the traffic graphs and the dashboard - stop at the moment it goes into

diff --git a/docs/README.md b/docs/README.md
@@ -11,7 +11,7 @@
 | find a photograph | [images/README.md](images/README.md) - every image by kind, with what it shows and where it is used |
 | understand how it works | [guide/how-it-works.md](guide/how-it-works.md), then a driver's pages: [npuep/](npuep/) for the ARMADA, [octep/](octep/) for the OCTEON TX |
 | know what it cannot do | [guide/limitations.md](guide/limitations.md) |
-| see the numbers, and how each was taken | [measurements/](measurements/) - the newest is [Suricata inspecting a connection in hardware, through the inspector's function - on the XGS 136 too](measurements/inspect-2026-10-23.md#then-made-on-the-xgs-136) |
+| see the numbers, and how each was taken | [measurements/](measurements/) - the newest is [OPNsense's own Intrusion Detection inspecting a connection in hardware: XGS: Settings "Inspect, then hardware"](measurements/inspect-2026-10-23.md#the-setting-and-the-intrusion-detection-service) |
 | find out why something is the way it is | [findings/](findings/), dated, in the order below |
 | know which board belongs to which family | [guide/families-and-hardware.md](guide/families-and-hardware.md), [families/](families/) |
 | take it to another operating system | [npuep/porting-notes.md](npuep/porting-notes.md), [provenance.md](provenance.md) |
